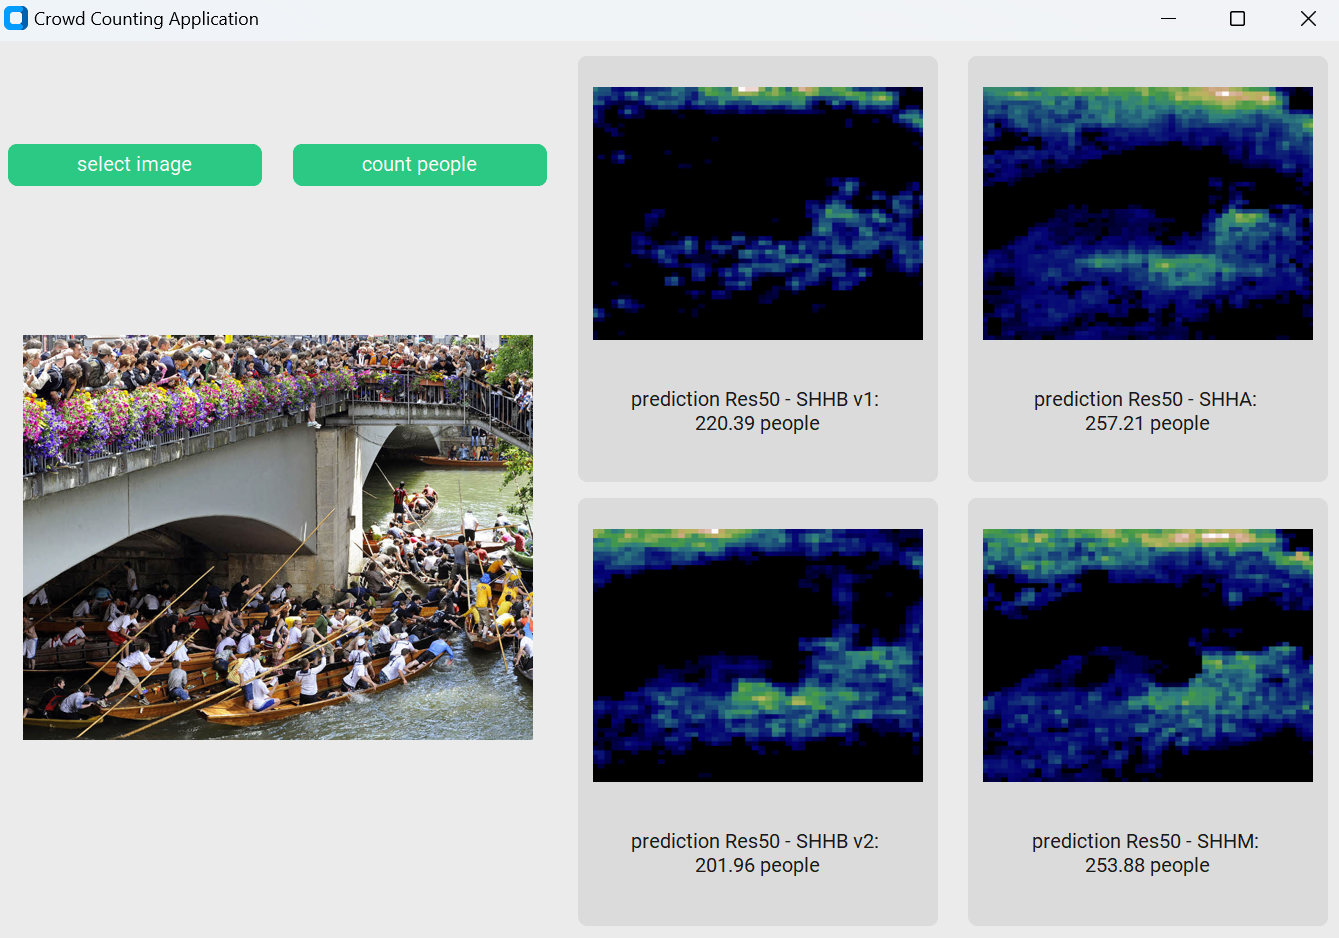
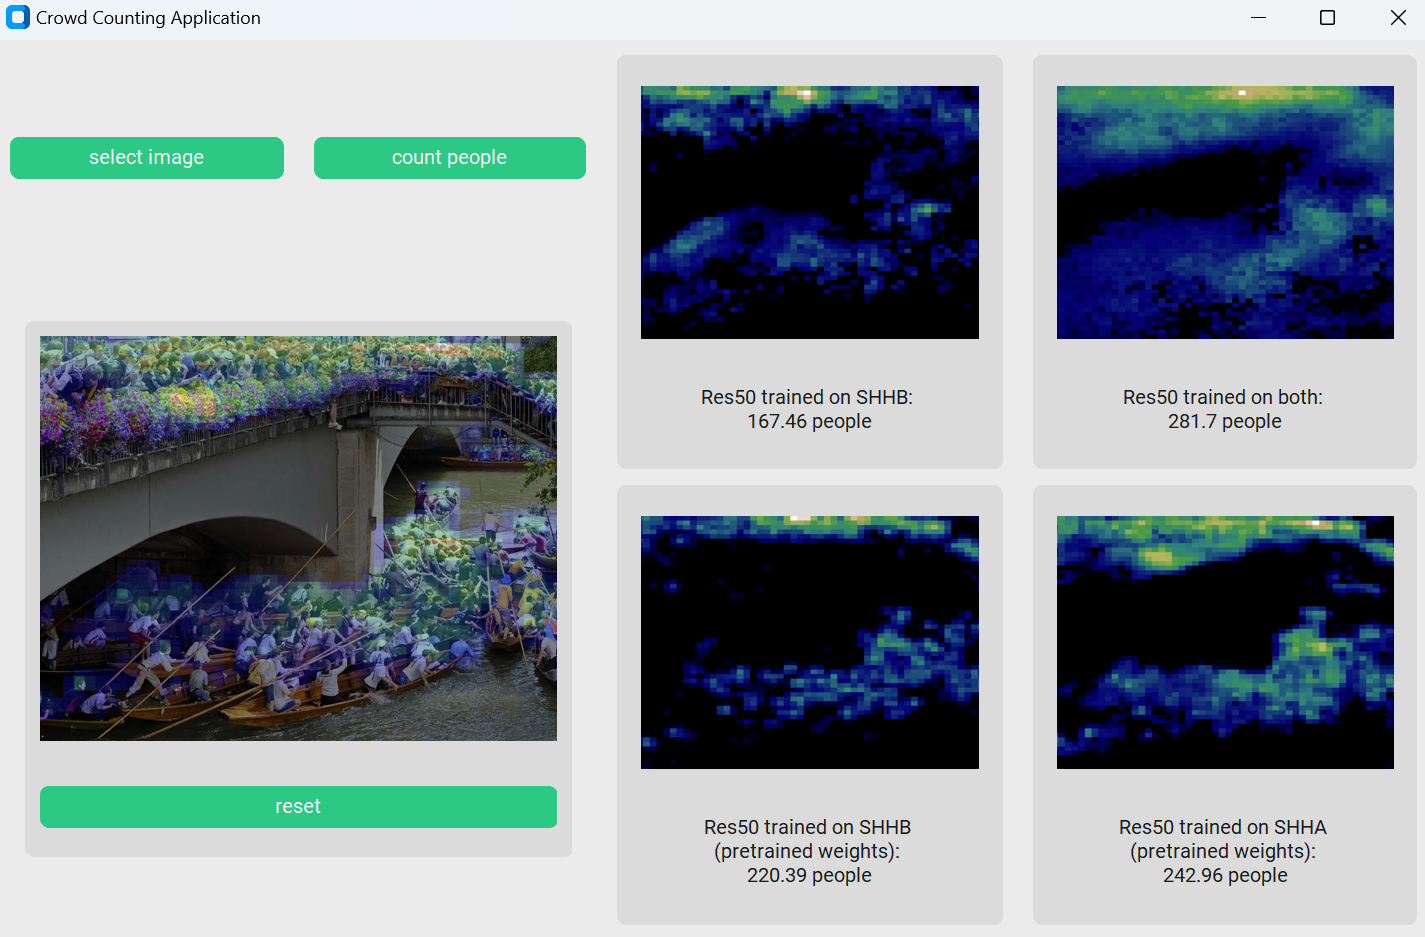
GUI final version

diff --git a/gui.py b/gui.py
@@ -6,10 +6,10 @@ from test import load_model, apply_counting
 ctk.set_appearance_mode("system")
 ctk.set_default_color_theme("green")
 
-model_path_1 = 'Trained_models/01-23_14-53_SHHB_Res50_1e-05/best_model.pth'
-model_path_2 = 'Trained_models/SHHB-No-Augmentations/best_model.pth'
-model_path_3 = 'Trained_models/SHHA-Resize-and-Augmentations/best_model.pth'
-model_path_4 = 'Trained_models/SHHM-Resize-and-Augmentations/best_model.pth'
+model_path_1 = 'Trained_models/SHHB-No-Augmentations/best_model.pth'
+model_path_2 = 'Trained_models/01-23_14-53_SHHB_Res50_1e-05/best_model.pth'
+model_path_3 = 'Trained_models/SHHM-Resize-and-Augmentations/best_model.pth'
+model_path_4 = 'Trained_models/Pretrained-SHHA/best_model.pth'
 
 net1 = load_model(model_path_1)
 net2 = load_model(model_path_2)
@@ -149,19 +149,19 @@ class App(ctk.CTk):
         height_small = self.selected_img.height * self.factor_small
 
         self.image_1.configure(light_image=img_1, size=(width_small, height_small))
-        self.text_pred_1.configure(text=f"Res50 trained on SHHB (pretrained weights): \n{pred_1} people")
+        self.text_pred_1.configure(text=f"Res50 trained on SHHB: \n{pred_1} people")
         self.button_change_1.configure(image=self.image_1, width=width_small, height=height_small)
 
         self.image_2.configure(light_image=img_2, size=(width_small, height_small))
-        self.text_pred_2.configure(text=f"Res50 trained on SHHB: \n{pred_2} people")
+        self.text_pred_2.configure(text=f"Res50 trained on SHHB \n(pretrained weights): \n{pred_2} people")
         self.button_change_2.configure(image=self.image_2, width=width_small, height=height_small)
 
         self.image_3.configure(light_image=img_3, size=(width_small, height_small))
-        self.text_pred_3.configure(text=f"Res50 trained on SHHA: \n{pred_3} people")
+        self.text_pred_3.configure(text=f"Res50 trained on both: \n{pred_3} people")
         self.button_change_3.configure(image=self.image_3, width=width_small, height=height_small)
 
         self.image_4.configure(light_image=img_4, size=(width_small, height_small))
-        self.text_pred_4.configure(text=f"Res50 trained on both: \n{pred_4} people")
+        self.text_pred_4.configure(text=f"Res50 trained on SHHA \n(pretrained weights): \n{pred_4} people")
         self.button_change_4.configure(image=self.image_4, width=width_small, height=height_small)
 
     def change_image(self, num):

diff --git a/README.md b/README.md
@@ -3,7 +3,7 @@
 ## How to use this code
 
 ### 1. for Training:
-The code is an updated an adjusted version of the Crowd Counting Framework by Gao et al. (https://github.com/gjy3035/C-3-Framework).
+The training part is an updated an adjusted version of the Crowd Counting Framework by Gao et al. (https://github.com/gjy3035/C-3-Framework).
 - requirements: Python 3.X, Pytorch 2.0, other libs in requirements.txt
 - set variables in config.py: dataset (SHHA, SHHB or SHHM), exp path, training with or without GPU support, other hyperparameters
 - in datasets/SHHX/setting.py set path to data with labels
